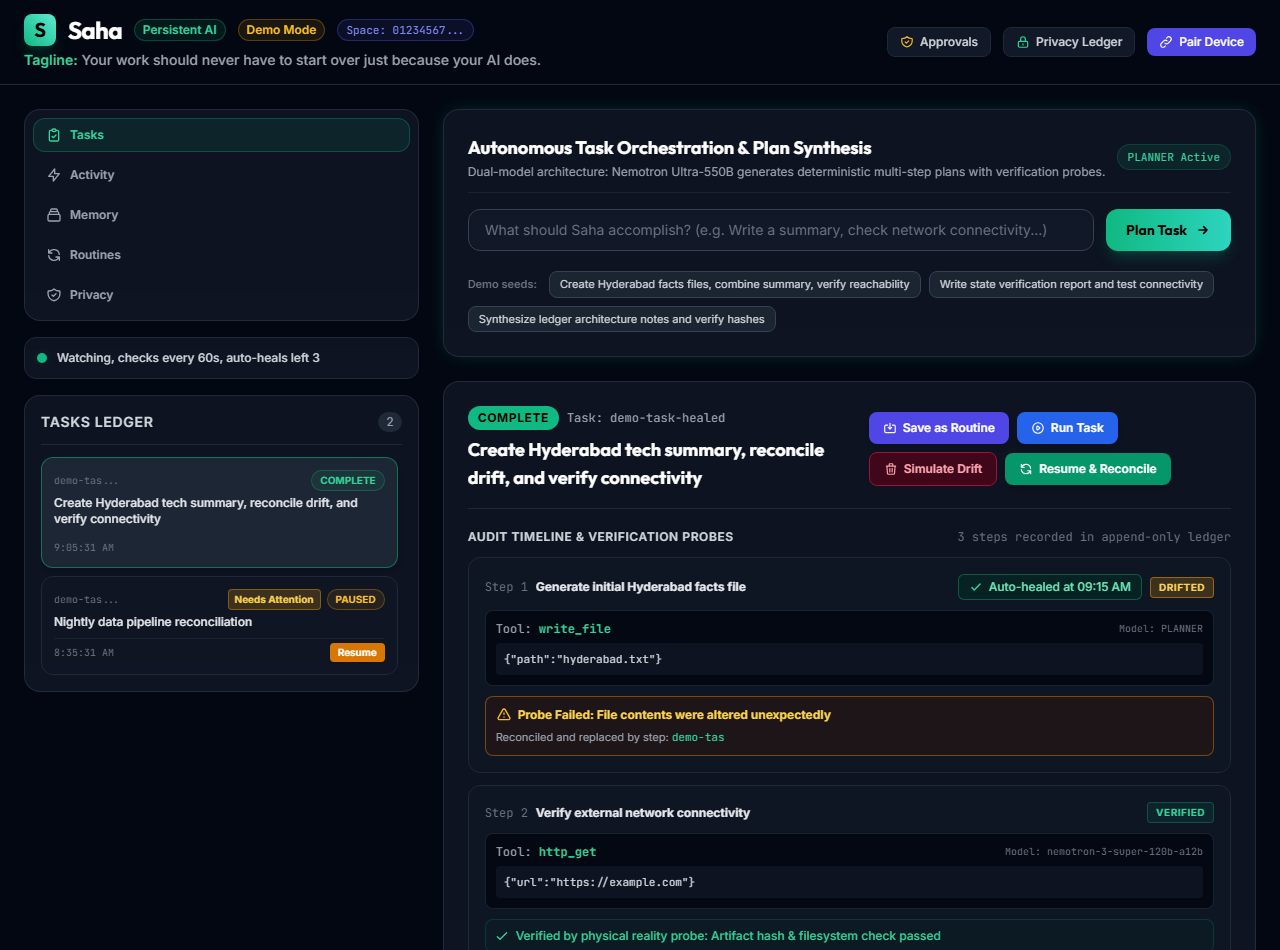
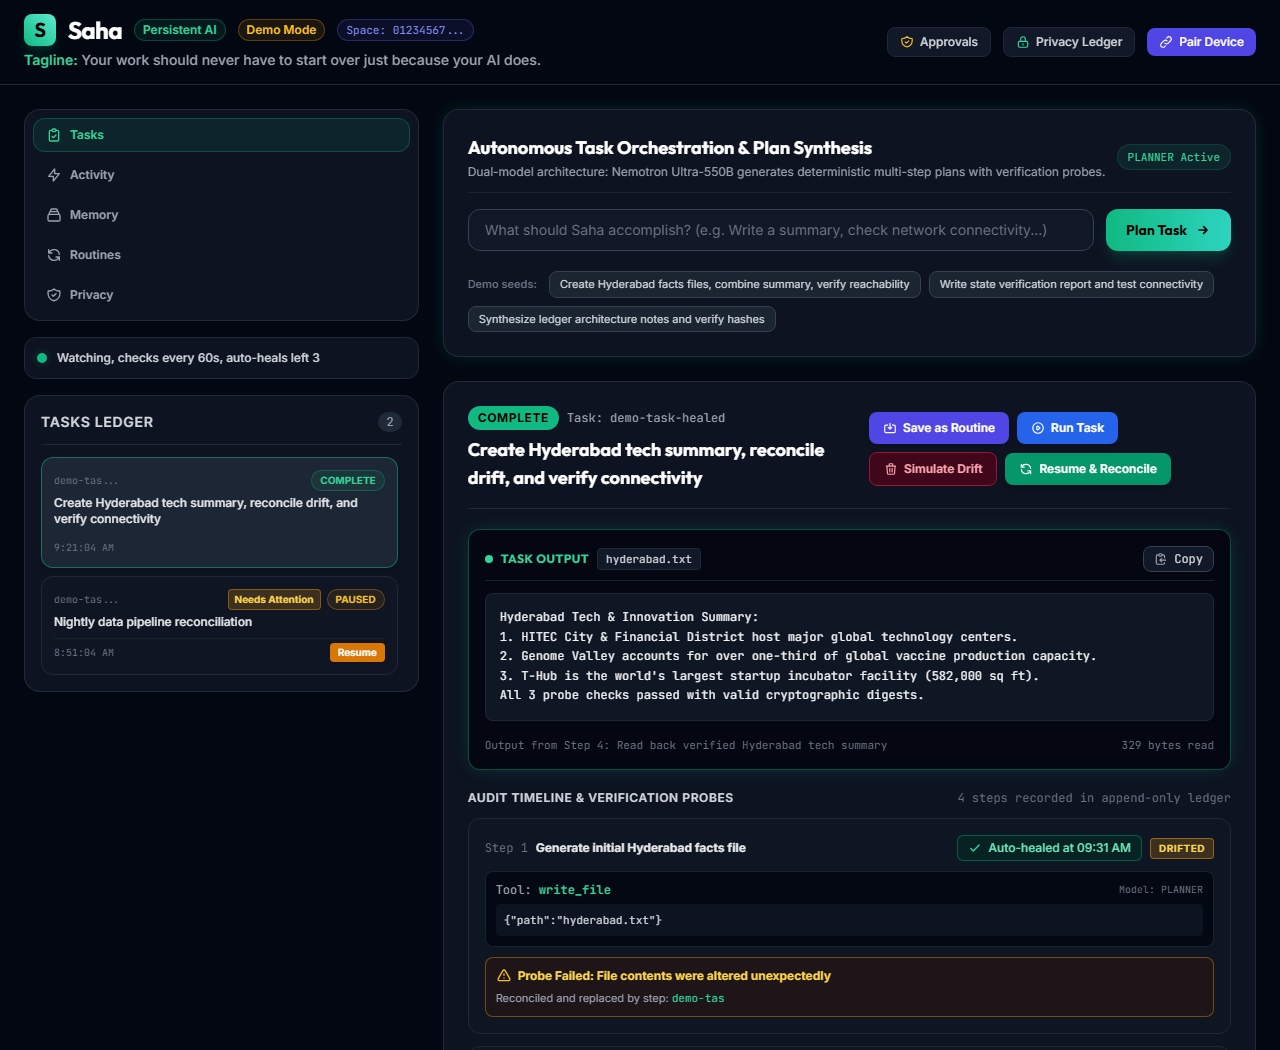
feat(ui): display read_file text in dedicated Task Output panel for completed tasks

diff --git a/web/index.html b/web/index.html
@@ -296,6 +296,31 @@
               </p>
             </div>
 
+            
+            <!-- Task Output Panel (Show text produced by read_file in completed task) -->
+            <div id="taskOutputPanel" class="hidden rounded-xl border border-emerald-500/40 bg-gray-950/90 p-4 space-y-3 glow-emerald">
+              <div class="flex items-center justify-between pb-2 border-b border-gray-800/80">
+                <div class="flex items-center gap-2">
+                  <div class="w-2 h-2 rounded-full bg-emerald-400"></div>
+                  <span class="text-xs font-bold uppercase tracking-wider text-emerald-400 font-display">Task Output</span>
+                  <span id="taskOutputPathBadge" class="text-[11px] font-mono text-gray-300 bg-gray-900 px-2 py-0.5 rounded border border-gray-800">--</span>
+                </div>
+                <button onclick="copyTaskOutput()" id="copyTaskOutputBtn" class="px-2.5 py-1 bg-gray-900 hover:bg-gray-800 border border-gray-700 text-gray-300 hover:text-white rounded-lg text-xs font-mono transition flex items-center gap-1.5 shadow-sm">
+                  <svg class="w-3.5 h-3.5 text-gray-400" fill="none" stroke="currentColor" viewBox="0 0 24 24"><path stroke-linecap="round" stroke-linejoin="round" stroke-width="2" d="M8 5H6a2 2 0 00-2 2v12a2 2 0 002 2h10a2 2 0 002-2v-1M8 5a2 2 0 002 2h2a2 2 0 002-2M8 5a2 2 0 012-2h2a2 2 0 012 2m0 0h2a2 2 0 012 2v3m2 4H10m0 0l3-3m-3 3l3 3"/></svg>
+                  <span>Copy</span>
+                </button>
+              </div>
+
+              <!-- Output Content Pre -->
+              <pre id="taskOutputContent" class="text-xs font-mono text-gray-100 bg-gray-900/90 p-3.5 rounded-lg border border-gray-800/90 overflow-x-auto whitespace-pre-wrap max-h-80 leading-relaxed selection:bg-emerald-500 selection:text-black">--</pre>
+
+              <!-- Footer with step context and bytes read -->
+              <div class="flex flex-wrap items-center justify-between gap-2 text-[11px] font-mono text-gray-500 pt-1">
+                <span id="taskOutputStepLabel">Output from read_file step</span>
+                <span id="taskOutputBytesLabel">0 bytes read</span>
+              </div>
+            </div>
+
             <!-- Steps Timeline -->
             <div class="space-y-3">
               <div class="flex items-center justify-between">
@@ -891,6 +916,24 @@
       } else if (sectionId === 'tasks') {
         loadTasks();
         if (activeTaskId) loadTaskDetail();
+      }
+    }
+
+    
+    function copyTaskOutput() {
+      const contentEl = document.getElementById("taskOutputContent");
+      if (!contentEl) return;
+      const text = contentEl.innerText;
+      navigator.clipboard.writeText(text);
+      const btn = document.getElementById("copyTaskOutputBtn");
+      if (btn) {
+        const origHtml = btn.innerHTML;
+        btn.innerText = "Copied!";
+        btn.classList.replace("text-gray-300", "text-emerald-400");
+        setTimeout(() => {
+          btn.innerHTML = origHtml;
+          btn.classList.replace("text-emerald-400", "text-gray-300");
+        }, 2000);
       }
     }
 
@@ -1699,6 +1742,47 @@
           blockedAlert.classList.add("hidden");
         }
 
+        
+        // Task Output Panel: Show actual text produced by read_file step in completed task
+        const outputPanel = document.getElementById("taskOutputPanel");
+        if (outputPanel) {
+          const isComplete = task.status === 'complete' || data.is_complete;
+          const readSteps = steps.filter(s => 
+            s.tool === 'read_file' && 
+            s.status !== 'superseded' && 
+            s.result && 
+            typeof s.result.content === 'string'
+          );
+
+          if (isComplete && readSteps.length > 0) {
+            outputPanel.classList.remove("hidden");
+            if (readSteps.length === 1) {
+              const primary = readSteps[0];
+              const path = primary.result.path || (primary.args && primary.args.path) || 'file';
+              const text = primary.result.content || '(Empty file)';
+              const bytes = primary.result.bytes_read !== undefined ? primary.result.bytes_read : text.length;
+
+              document.getElementById("taskOutputPathBadge").innerText = path;
+              document.getElementById("taskOutputContent").innerText = text;
+              document.getElementById("taskOutputStepLabel").innerText = `Output from Step ${primary.idx || primary.seq}: ${primary.intent || 'Read file'}`;
+              document.getElementById("taskOutputBytesLabel").innerText = `${bytes.toLocaleString()} bytes read`;
+            } else {
+              const combinedText = readSteps.map(s => {
+                const path = s.result.path || (s.args && s.args.path) || 'file';
+                return `=== ${path} (Step ${s.idx || s.seq}: ${s.intent || 'Read file'}) ===\n${s.result.content}`;
+              }).join('\n\n');
+              const totalBytes = readSteps.reduce((acc, s) => acc + (s.result.bytes_read !== undefined ? s.result.bytes_read : (s.result.content || '').length), 0);
+
+              document.getElementById("taskOutputPathBadge").innerText = `${readSteps.length} files`;
+              document.getElementById("taskOutputContent").innerText = combinedText;
+              document.getElementById("taskOutputStepLabel").innerText = `${readSteps.length} read_file steps executed`;
+              document.getElementById("taskOutputBytesLabel").innerText = `${totalBytes.toLocaleString()} bytes total`;
+            }
+          } else {
+            outputPanel.classList.add("hidden");
+          }
+        }
+
         document.getElementById("timelineStats").innerText = `${steps.length} steps recorded in append-only ledger`;
 
         // Render Steps Timeline
@@ -1760,6 +1844,20 @@
               </div>
 
               <!-- Verification Probes & Outcomes -->
+              
+              ${s.tool === 'read_file' && s.result && typeof s.result.content === 'string' ? `
+                <div class="space-y-1.5 text-xs bg-gray-950/80 border border-gray-800 rounded-lg p-2.5">
+                  <div class="flex items-center justify-between text-gray-400 font-mono text-[11px]">
+                    <span class="text-emerald-400 font-semibold flex items-center gap-1.5">
+                      <svg class="w-3.5 h-3.5 text-emerald-400" fill="none" stroke="currentColor" viewBox="0 0 24 24"><path stroke-linecap="round" stroke-linejoin="round" stroke-width="2" d="M9 12h6m-6 4h6m2 5H7a2 2 0 01-2-2V5a2 2 0 012-2h5.586a1 1 0 01.707.293l5.414 5.414a1 1 0 01.293.707V19a2 2 0 01-2 2z"/></svg>
+                      Read Content (${s.result.path || (s.args && s.args.path) || 'file'})
+                    </span>
+                    <span>${(s.result.bytes_read !== undefined ? s.result.bytes_read : s.result.content.length).toLocaleString()} bytes</span>
+                  </div>
+                  <pre class="text-gray-200 font-mono text-[11px] bg-gray-900/90 p-2.5 rounded border border-gray-800/80 whitespace-pre-wrap max-h-48 overflow-y-auto leading-relaxed">${s.result.content}</pre>
+                </div>
+              ` : ''}
+
               ${s.status === 'verified' ? `
                 <div class="flex items-center gap-1.5 text-xs text-emerald-400 font-medium bg-emerald-950/20 border border-emerald-500/20 rounded-lg p-2">
                   <svg class="w-4 h-4 text-emerald-400" fill="none" stroke="currentColor" viewBox="0 0 24 24"><path stroke-linecap="round" stroke-linejoin="round" stroke-width="2" d="M5 13l4 4L19 7"/></svg>
